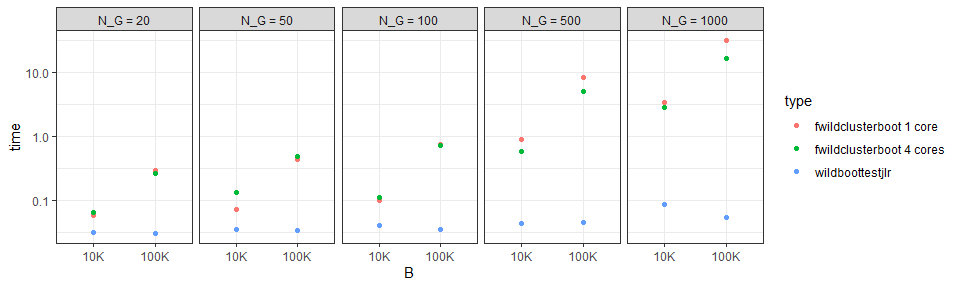
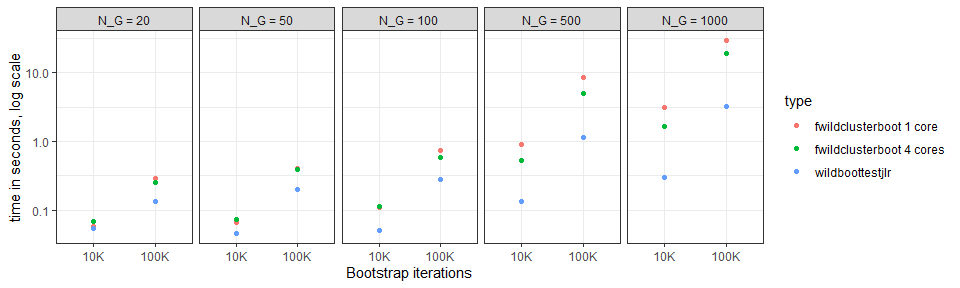
update readme (new benchmarks)

diff --git a/README.md b/README.md
@@ -300,7 +300,7 @@ summary(boot_ivreg)
 #>  Number of Clusters: 9
 #> 
 #>              term estimate statistic p.value conf.low conf.high
-#> 1 1*education = 0     0.09     2.201   0.022    0.015     0.241
+#> 1 1*education = 0     0.09     2.201   0.017    0.018     0.267
 ```
 
 ## Benchmarks
